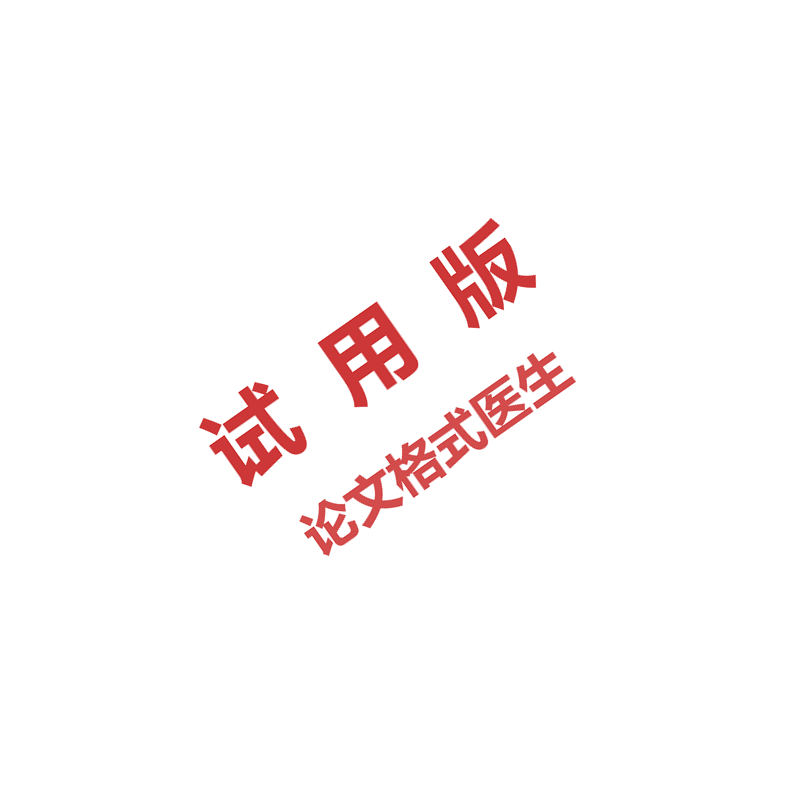
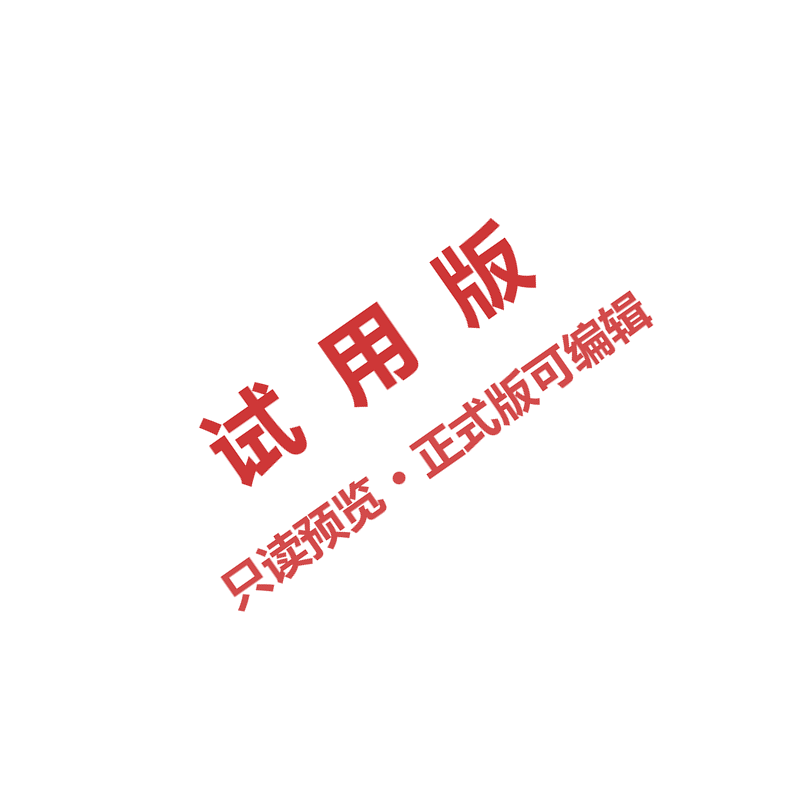
v1.3.64 试用版输出新增'只读保护'(编辑需密码)+水印文案提示'只读预览'（用户拍板：固定密码 reedskilllunwengeshiyisheng，水印要提示客户避免纠纷）： ①watermark.py 新增只读保护：word/settings.xml 注入 w:documentProtection(edit=readOnly,enforcement=1)——Word 2007+ 标准 legacy hash(SHA-1+salt+100000次迭代), Word/WPS 均支持,客户打开可看可打印但编辑需密码,防删水印/篡改;按 CT_Settings 规范顺序插入(compat

Changed region(s): [[0.2812, 0.3438, 0.8125, 0.7812]]

diff --git a/tfd_app/watermark.py b/tfd_app/watermark.py
@@ -11,6 +11,8 @@
 正式版（有激活码）不调用本模块，输出无水印文档。
 """
 import os
+import base64
+import hashlib
 import zipfile
 import xml.etree.ElementTree as ET
 
@@ -38,8 +40,11 @@ ET.register_namespace("wp", WP)
 ET.register_namespace("a", A)
 ET.register_namespace("pic", PIC)
 
-_WM_HEADER = "试用版 · 论文格式医生（正式版无水印）"
-_WM_BODY = "【试用版】论文格式医生 · 一键按学校模板修正格式（正式版无水印）"
+_WM_HEADER = "试用版 · 只读预览 ｜ 论文格式医生 · 正式版可编辑无水印"
+_WM_BODY = "【试用版 · 只读预览】论文格式医生 · 正式版可编辑无水印"
+
+# v1.3.64：只读保护固定密码（用户设定，不对外公布；客户点编辑需密码才能解锁）
+_WM_PASSWORD = "reedskilllunwengeshiyisheng"
 
 _HDR_REL_ID = "rIdTfdHdr"
 _FTR_REL_ID = "rIdTfdFtr"
@@ -309,6 +314,78 @@ def _insert_image_paras(doc_root, step=14, cap=80):
     return len(positions)
 
 
+# CT_Settings 中排在 documentProtection 之后的元素（ECMA-376 §17.15.1.78 顺序），
+# 用于确定 documentProtection 的合法插入位置（严格顺序，避免 Word 报损坏）。
+_AFTER_DP = {
+    "autoFormatOverride", "styleLockTheme", "styleLockQFSet", "defaultTabStop",
+    "autoHyphenation", "consecutiveHyphenLimit", "hyphenationZone", "doNotHyphenateCaps",
+    "showEnvelope", "summaryLength", "clickAndTypeStyle", "defaultTableStyle",
+    "evenAndOddHeaders", "bookFoldRevPrinting", "bookFoldPrinting", "bookFoldPrintingSheets",
+    "drawingGridHorizontalSpacing", "drawingGridVerticalSpacing",
+    "displayHorizontalDrawingGridEvery", "displayVerticalDrawingGridEvery",
+    "doNotUseMarginsForDrawingGridOrigin", "drawingGridHorizontalOrigin",
+    "drawingGridVerticalOrigin", "doNotShadeFormData", "noPunctuationKerning",
+    "characterSpacingControl", "printTwoOnOne", "strictFirstAndLastChars",
+    "noLineBreaksAfter", "noLineBreaksBefore", "savePreviewPicture",
+    "doNotValidateAgainstSchema", "saveInvalidXml", "ignoreMixedContent",
+    "alwaysShowPlaceholderText", "doNotDemarcateInvalidXml", "saveXmlDataOnly",
+    "useXSLTWhenSaving", "saveThroughXslt", "showXMLTags", "alwaysMergeEmptyNamespace",
+    "updateFields", "hdrShapeDefaults", "footnotePr", "endnotePr", "compat", "rsids",
+    "mathPr", "uiCompat97To2003",
+}
+
+
+def _readonly_protection_xml():
+    """生成 w:documentProtection（只读+密码哈希）元素对象。
+
+    v1.3.64：试用版文档只读，编辑需密码——防客户删除水印/篡改内容。
+    算法：Word 2007+ 标准 legacy hash（SHA-1(salt+UTF16密码) + 100000 次迭代），
+    Word/WPS 均支持。密码固定（_WM_PASSWORD），不对外公布。
+    注：必须用 ET.Element 构建（自带命名空间），不能用字符串片段 fromstring
+    （无 xmlns 声明会报 unbound prefix）。
+    """
+    salt = os.urandom(4)
+    h = hashlib.sha1(salt + _WM_PASSWORD.encode("utf-16-le")).digest()
+    for i in range(100000):
+        h = hashlib.sha1(("%08x" % i).encode("ascii") + h).digest()
+    el = ET.Element(WR + "documentProtection")
+    el.set(WR + "edit", "readOnly")
+    el.set(WR + "enforcement", "1")
+    el.set(WR + "cryptProviderType", "rsaFull")
+    el.set(WR + "cryptAlgorithmClass", "hash")
+    el.set(WR + "cryptAlgorithmType", "typeAny")
+    el.set(WR + "cryptAlgorithmSid", "4")
+    el.set(WR + "cryptSpinCount", "100000")
+    el.set(WR + "hash", base64.b64encode(h).decode("ascii"))
+    el.set(WR + "salt", base64.b64encode(salt).decode("ascii"))
+    return el
+
+
+def _apply_readonly(parts):
+    """在 word/settings.xml 注入只读保护（documentProtection）。"""
+    settings_path = "word/settings.xml"
+    settings_xml = parts.get(settings_path)
+    if settings_xml is None:
+        return False
+    root = ET.fromstring(settings_xml)
+    # 移除已有 documentProtection（防重复 / 替换文档自带保护）
+    for dp in list(root.iter(WR + "documentProtection")):
+        root.remove(dp)
+    prot_el = _readonly_protection_xml()
+    # 按 CT_Settings 顺序插入：找第一个"排在 documentProtection 之后"的元素，插到其前
+    insert_at = None
+    for i, el in enumerate(list(root)):
+        if el.tag.replace(WR, "") in _AFTER_DP:
+            insert_at = i
+            break
+    if insert_at is None:
+        root.append(prot_el)
+    else:
+        root.insert(insert_at, prot_el)
+    parts[settings_path] = _xml_str(root).encode("utf-8")
+    return True
+
+
 def apply_watermark(path):
     """给修正后的 docx 就地加试用水印（重写 zip）。返回 True 成功；异常返回 False。"""
     tmp = path + ".wm.tmp"
@@ -325,6 +402,9 @@ def apply_watermark(path):
         _insert_image_paras(doc_root)   # v1.3.62：正文插入水印图片（WPS 必显示）
         _insert_sect_refs(doc_root)
         parts["word/document.xml"] = _xml_str(doc_root).encode("utf-8")
+
+        # v1.3.64：只读保护（编辑需密码）——防客户删水印/改内容，正式版不调用本模块
+        _apply_readonly(parts)
 
         # 页眉（VML 红色斜向大水印 + 红字）/ 页脚（红字）
         parts["word/header1.xml"] = _header_xml(_WM_HEADER).encode("utf-8")

diff --git a/tfd_app/gui.py b/tfd_app/gui.py
@@ -80,7 +80,7 @@ _FONT_BASE = {
     "F_DIALOG_TITLE": ("KaiTi", 14, "bold"),    # 弹窗标题（楷体）
     "F_ICON":       ("KaiTi", 12, "bold"),      # 印章图标（论 / 模，楷体朱砂）
 }
-APP_VERSION = "1.3.63"   # 与 VERSION 文件保持同步（状态栏显示用）
+APP_VERSION = "1.3.64"   # 与 VERSION 文件保持同步（状态栏显示用）
 _FONTS = {}      # name -> (Font, base_size)
 _CUR_SCALE = 1.0 # 当前窗口缩放比例（宽度 / 基准宽度，钳制 0.8~1.0：只缩小不放大）
 BASE_W = 900     # 设计基准宽度（px），与主窗口默认 900x640 对应
@@ -1240,10 +1240,10 @@ class App:
             docx_path, dst, profile_path=profile,
             report_docx=rep, add_comments=True)
         if not licensed:
-            # 试用版：给修正后的论文加水印，并让客户知道正式版无水印
+            # 试用版：给修正后的论文加水印+只读保护，并让客户知道正式版可编辑无水印
             if watermark.apply_watermark(dst):
-                report += ("\n\n> 本预览版带水印（页眉页脚+正文）；"
-                           "激活码解锁后输出无水印正式版，可一键交稿。\n")
+                report += ("\n\n> 本预览版带水印且为【只读】文档（编辑需密码，仅作效果预览）；"
+                           "激活码解锁后输出可编辑无水印正式版，可一键交稿。\n")
             else:
                 self._debug("[试用水印注入失败，已跳过]")
         self._debug(report)
@@ -1270,8 +1270,9 @@ class App:
         def show():
             box["ok"] = messagebox.askyesno(
                 "试用版提示",
-                "当前为试用版（本机剩余 %d 次），修正后的论文将带水印，仅作效果预览。\n\n"
-                "正式版输出无水印文档，可一键交稿。\n\n是否继续？" % left,
+                "当前为试用版（本机剩余 %d 次），修正后的论文将带水印，且为只读预览文档"
+                "（编辑需密码）。\n\n"
+                "正式版输出可编辑无水印文档，可一键交稿。\n\n是否继续？" % left,
                 parent=self.root)
             ev.set()
 
